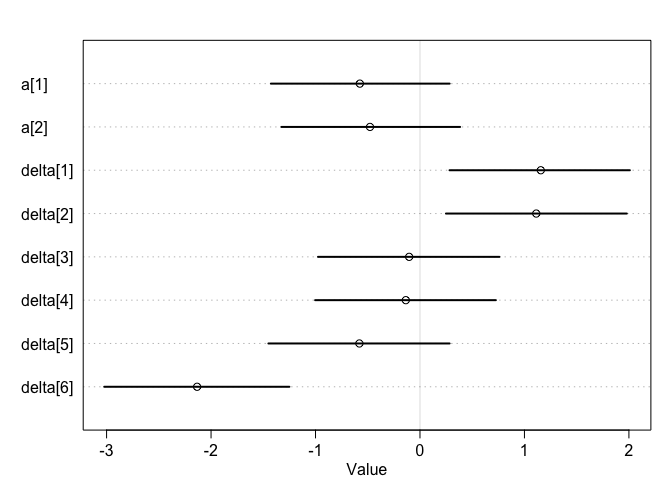
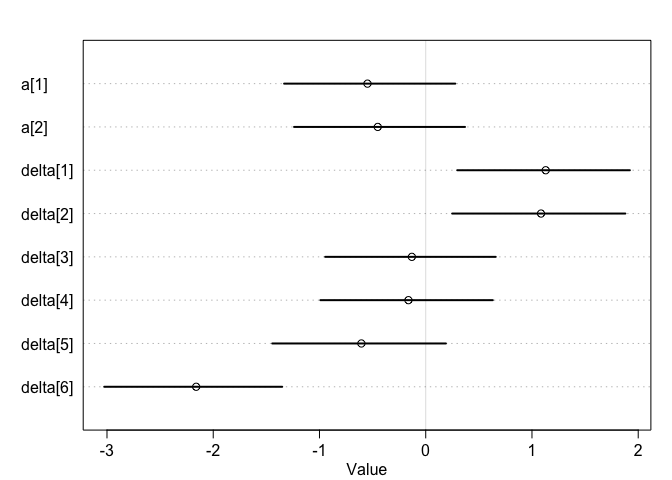
error gone after restarting computer, but problems in multi slope v1

diff --git a/Chap14_2_HW.md b/Chap14_2_HW.md
@@ -104,31 +104,58 @@ m13.1 <- ulam(
         logit(p) <- a[tank],
         a[tank] ~ dnorm( 0 , 1.5 )
 ), data=dat, chains=4, log_lik=TRUE ,cores=2) # cores=2 added by Kazu
+precis( m13.1 , depth=2 )
 ```
 
-    ## Trying to compile a simple C file
-
-    ## Running /Library/Frameworks/R.framework/Resources/bin/R CMD SHLIB foo.c
-    ## clang -I"/Library/Frameworks/R.framework/Resources/include" -DNDEBUG   -I"/Library/Frameworks/R.framework/Versions/3.6/Resources/library/Rcpp/include/"  -I"/Library/Frameworks/R.framework/Versions/3.6/Resources/library/RcppEigen/include/"  -I"/Library/Frameworks/R.framework/Versions/3.6/Resources/library/RcppEigen/include/unsupported"  -I"/Library/Frameworks/R.framework/Versions/3.6/Resources/library/BH/include" -I"/Library/Frameworks/R.framework/Versions/3.6/Resources/library/StanHeaders/include/src/"  -I"/Library/Frameworks/R.framework/Versions/3.6/Resources/library/StanHeaders/include/"  -I"/Library/Frameworks/R.framework/Versions/3.6/Resources/library/RcppParallel/include/"  -I"/Library/Frameworks/R.framework/Versions/3.6/Resources/library/rstan/include" -DEIGEN_NO_DEBUG  -DBOOST_DISABLE_ASSERTS  -DBOOST_PENDING_INTEGER_LOG2_HPP  -DSTAN_THREADS  -include stan/math/prim/mat/fun/Eigen.hpp  -D_REENTRANT  "-isystem /Library/Developer/CommandLineTools/SDKs/MacOSX.sdk/usr/include"  -fPIC  -isysroot /Library/Developer/CommandLineTools/SDKs/MacOSX.sdk -c foo.c -o foo.o
-    ## In file included from <built-in>:1:
-    ## In file included from /Library/Frameworks/R.framework/Versions/3.6/Resources/library/StanHeaders/include/stan/math/prim/mat/fun/Eigen.hpp:13:
-    ## In file included from /Library/Frameworks/R.framework/Versions/3.6/Resources/library/RcppEigen/include/Eigen/Dense:1:
-    ## In file included from /Library/Frameworks/R.framework/Versions/3.6/Resources/library/RcppEigen/include/Eigen/Core:88:
-    ## /Library/Frameworks/R.framework/Versions/3.6/Resources/library/RcppEigen/include/Eigen/src/Core/util/Macros.h:613:1: error: unknown type name 'namespace'
-    ## namespace Eigen {
-    ## ^
-    ## /Library/Frameworks/R.framework/Versions/3.6/Resources/library/RcppEigen/include/Eigen/src/Core/util/Macros.h:613:16: error: expected ';' after top level declarator
-    ## namespace Eigen {
-    ##                ^
-    ##                ;
-    ## In file included from <built-in>:1:
-    ## In file included from /Library/Frameworks/R.framework/Versions/3.6/Resources/library/StanHeaders/include/stan/math/prim/mat/fun/Eigen.hpp:13:
-    ## In file included from /Library/Frameworks/R.framework/Versions/3.6/Resources/library/RcppEigen/include/Eigen/Dense:1:
-    ## /Library/Frameworks/R.framework/Versions/3.6/Resources/library/RcppEigen/include/Eigen/Core:96:10: fatal error: 'complex' file not found
-    ## #include <complex>
-    ##          ^~~~~~~~~
-    ## 3 errors generated.
-    ## make: *** [foo.o] Error 1
+    ##              mean        sd        5.5%       94.5%    n_eff     Rhat4
+    ## a[1]   1.71162109 0.7805870  0.53850206  3.02335672 5890.928 0.9996131
+    ## a[2]   2.41357979 0.9087782  1.05664232  3.90742197 4119.387 1.0003599
+    ## a[3]   0.75738800 0.6257051 -0.19096741  1.80621355 4926.437 0.9989029
+    ## a[4]   2.40260088 0.8699920  1.11636725  3.84850151 4343.292 0.9985329
+    ## a[5]   1.71461336 0.7444676  0.56986319  2.96456475 5007.211 0.9990207
+    ## a[6]   1.71812635 0.8311876  0.47233762  3.11959746 4734.213 0.9988811
+    ## a[7]   2.40920627 0.9375493  1.01849282  3.95624055 3379.251 0.9990725
+    ## a[8]   1.71753687 0.7572272  0.57753169  2.99514619 3895.205 0.9992208
+    ## a[9]  -0.37890800 0.6201957 -1.40171478  0.57516802 6177.242 0.9985557
+    ## a[10]  1.70243367 0.7588801  0.58615080  2.94777132 4235.528 0.9989951
+    ## a[11]  0.76051033 0.6357525 -0.26492475  1.84626268 5356.679 0.9986576
+    ## a[12]  0.35957544 0.6083007 -0.57817738  1.34891097 5260.384 0.9984896
+    ## a[13]  0.77468891 0.6494445 -0.19854732  1.82842787 4422.006 0.9984664
+    ## a[14] -0.01099823 0.6010364 -0.96620875  0.93912494 6113.480 0.9984808
+    ## a[15]  1.69369669 0.7601172  0.54820202  2.96542156 3887.811 0.9986455
+    ## a[16]  1.71450502 0.7569883  0.57068830  2.99590526 5712.353 0.9986089
+    ## a[17]  2.55366285 0.6743282  1.55529752  3.70036446 3520.979 0.9988325
+    ## a[18]  2.13788428 0.5898346  1.25548952  3.13735290 3128.000 1.0001689
+    ## a[19]  1.80233624 0.5296216  1.01579425  2.69387274 4689.359 0.9999101
+    ## a[20]  3.08112277 0.7827435  1.98873441  4.44107313 3213.785 1.0001969
+    ## a[21]  2.13086419 0.5944489  1.21979524  3.11764872 5872.031 0.9988298
+    ## a[22]  2.15196171 0.6162636  1.23754544  3.16092863 4219.205 0.9985266
+    ## a[23]  2.16506085 0.6268884  1.22165768  3.17835428 3621.384 0.9988431
+    ## a[24]  1.52639417 0.5033810  0.79356141  2.34165695 5290.042 0.9989566
+    ## a[25] -1.09981597 0.4492411 -1.84239128 -0.39769849 4559.790 0.9990827
+    ## a[26]  0.07299872 0.3803417 -0.53063289  0.68299693 4809.723 0.9983355
+    ## a[27] -1.54509632 0.5110021 -2.40546948 -0.77266165 4476.869 0.9986419
+    ## a[28] -0.56665452 0.4225155 -1.26493903  0.10454105 4629.345 0.9986116
+    ## a[29]  0.07841264 0.3958108 -0.56734234  0.71977925 4880.402 0.9990958
+    ## a[30]  1.30788932 0.4817720  0.59231808  2.09306280 4836.194 0.9985865
+    ## a[31] -0.72081052 0.4177083 -1.39138723 -0.07213573 5780.464 0.9995584
+    ## a[32] -0.39713649 0.3957373 -1.04174240  0.21427544 6216.343 0.9989252
+    ## a[33]  2.82609754 0.6343408  1.88854091  3.89857057 3857.645 0.9992902
+    ## a[34]  2.45651459 0.5844352  1.57380481  3.44315438 4049.012 0.9982932
+    ## a[35]  2.46129662 0.5692681  1.61773074  3.41971842 3680.876 1.0007181
+    ## a[36]  1.91734980 0.4727699  1.20093253  2.72788777 3763.201 0.9994719
+    ## a[37]  1.90375881 0.4919558  1.17237804  2.72039817 4588.074 0.9982084
+    ## a[38]  3.36215692 0.7790680  2.22563279  4.67481203 2943.696 0.9991846
+    ## a[39]  2.47520197 0.5777906  1.61323138  3.43073436 3859.536 0.9990733
+    ## a[40]  2.16018299 0.5087453  1.40891479  3.00561993 3784.764 0.9985693
+    ## a[41] -1.90106779 0.4768062 -2.67400476 -1.19781616 3394.257 0.9995841
+    ## a[42] -0.63034206 0.3472291 -1.19605361 -0.08362308 5972.959 0.9988837
+    ## a[43] -0.50510971 0.3454303 -1.06625993  0.06064687 4197.083 0.9992110
+    ## a[44] -0.39432692 0.3357893 -0.94372291  0.13026454 4151.761 0.9992621
+    ## a[45]  0.51817575 0.3527819 -0.03087545  1.07374264 5748.180 0.9986630
+    ## a[46] -0.63275994 0.3403313 -1.18526168 -0.10702546 5509.373 0.9990598
+    ## a[47]  1.91489718 0.5046534  1.14002049  2.75647388 4736.907 0.9988548
+    ## a[48] -0.06136391 0.3260838 -0.57089626  0.45648127 5950.351 0.9985406
 
 # the end of test
 
@@ -167,45 +194,18 @@ m11.8.ulam <- ulam(
         a[gid] ~ dnorm( 0 , 1.5 ) ,
         delta[did] ~ dnorm( 0 , 1.5 )
     ) , data=dat,chains=4,cores=2,iter=4000,log_lik=TRUE)
-```
-
-    ## Trying to compile a simple C file
-
-    ## Running /Library/Frameworks/R.framework/Resources/bin/R CMD SHLIB foo.c
-    ## clang -I"/Library/Frameworks/R.framework/Resources/include" -DNDEBUG   -I"/Library/Frameworks/R.framework/Versions/3.6/Resources/library/Rcpp/include/"  -I"/Library/Frameworks/R.framework/Versions/3.6/Resources/library/RcppEigen/include/"  -I"/Library/Frameworks/R.framework/Versions/3.6/Resources/library/RcppEigen/include/unsupported"  -I"/Library/Frameworks/R.framework/Versions/3.6/Resources/library/BH/include" -I"/Library/Frameworks/R.framework/Versions/3.6/Resources/library/StanHeaders/include/src/"  -I"/Library/Frameworks/R.framework/Versions/3.6/Resources/library/StanHeaders/include/"  -I"/Library/Frameworks/R.framework/Versions/3.6/Resources/library/RcppParallel/include/"  -I"/Library/Frameworks/R.framework/Versions/3.6/Resources/library/rstan/include" -DEIGEN_NO_DEBUG  -DBOOST_DISABLE_ASSERTS  -DBOOST_PENDING_INTEGER_LOG2_HPP  -DSTAN_THREADS  -include stan/math/prim/mat/fun/Eigen.hpp  -D_REENTRANT  "-isystem /Library/Developer/CommandLineTools/SDKs/MacOSX.sdk/usr/include"  -fPIC  -isysroot /Library/Developer/CommandLineTools/SDKs/MacOSX.sdk -c foo.c -o foo.o
-    ## In file included from <built-in>:1:
-    ## In file included from /Library/Frameworks/R.framework/Versions/3.6/Resources/library/StanHeaders/include/stan/math/prim/mat/fun/Eigen.hpp:13:
-    ## In file included from /Library/Frameworks/R.framework/Versions/3.6/Resources/library/RcppEigen/include/Eigen/Dense:1:
-    ## In file included from /Library/Frameworks/R.framework/Versions/3.6/Resources/library/RcppEigen/include/Eigen/Core:88:
-    ## /Library/Frameworks/R.framework/Versions/3.6/Resources/library/RcppEigen/include/Eigen/src/Core/util/Macros.h:613:1: error: unknown type name 'namespace'
-    ## namespace Eigen {
-    ## ^
-    ## /Library/Frameworks/R.framework/Versions/3.6/Resources/library/RcppEigen/include/Eigen/src/Core/util/Macros.h:613:16: error: expected ';' after top level declarator
-    ## namespace Eigen {
-    ##                ^
-    ##                ;
-    ## In file included from <built-in>:1:
-    ## In file included from /Library/Frameworks/R.framework/Versions/3.6/Resources/library/StanHeaders/include/stan/math/prim/mat/fun/Eigen.hpp:13:
-    ## In file included from /Library/Frameworks/R.framework/Versions/3.6/Resources/library/RcppEigen/include/Eigen/Dense:1:
-    ## /Library/Frameworks/R.framework/Versions/3.6/Resources/library/RcppEigen/include/Eigen/Core:96:10: fatal error: 'complex' file not found
-    ## #include <complex>
-    ##          ^~~~~~~~~
-    ## 3 errors generated.
-    ## make: *** [foo.o] Error 1
-
-``` r
 precis( m11.8.ulam , depth=2 )
 ```
 
     ##                mean        sd       5.5%      94.5%    n_eff    Rhat4
-    ## a[1]     -0.5757211 0.5350527 -1.4270152  0.2836949 611.9735 1.000902
-    ## a[2]     -0.4785611 0.5365328 -1.3265517  0.3838958 614.0224 1.000853
-    ## delta[1]  1.1565952 0.5379881  0.2829745  2.0090522 619.7225 1.000762
-    ## delta[2]  1.1131554 0.5403540  0.2487516  1.9796943 623.6869 1.001080
-    ## delta[3] -0.1036900 0.5394389 -0.9762103  0.7603851 616.1843 1.000893
-    ## delta[4] -0.1356350 0.5390928 -1.0036596  0.7263490 617.1764 1.000778
-    ## delta[5] -0.5801026 0.5389542 -1.4509705  0.2833608 622.2192 1.000975
-    ## delta[6] -2.1335407 0.5526464 -3.0225530 -1.2501634 634.8975 1.000791
+    ## a[1]     -0.5483191 0.5016602 -1.3327749  0.2783357 657.1990 1.006194
+    ## a[2]     -0.4516842 0.5030971 -1.2390711  0.3696182 660.7883 1.005988
+    ## delta[1]  1.1291552 0.5046935  0.2969050  1.9213021 663.7386 1.005784
+    ## delta[2]  1.0853259 0.5068881  0.2493052  1.8787809 671.6900 1.005963
+    ## delta[3] -0.1305684 0.5036780 -0.9461940  0.6587598 662.6862 1.006189
+    ## delta[4] -0.1627117 0.5057496 -0.9914115  0.6312114 672.1569 1.006090
+    ## delta[5] -0.6055754 0.5072805 -1.4443009  0.1897006 672.8114 1.006184
+    ## delta[6] -2.1605985 0.5189105 -3.0259662 -1.3508785 710.7250 1.005835
 
 ``` r
 plot(m11.8.ulam , depth=2)
@@ -226,49 +226,22 @@ m.practice13M3.a <- ulam(
           a[did] ~ dnorm( 0 , 1.5 ) ,
           delta[did] ~ dnorm(0,1.5) 
         ) , data=dat , chains=4 , cores=2 , iter=4000,log_lik=TRUE )
-```
-
-    ## Trying to compile a simple C file
-
-    ## Running /Library/Frameworks/R.framework/Resources/bin/R CMD SHLIB foo.c
-    ## clang -I"/Library/Frameworks/R.framework/Resources/include" -DNDEBUG   -I"/Library/Frameworks/R.framework/Versions/3.6/Resources/library/Rcpp/include/"  -I"/Library/Frameworks/R.framework/Versions/3.6/Resources/library/RcppEigen/include/"  -I"/Library/Frameworks/R.framework/Versions/3.6/Resources/library/RcppEigen/include/unsupported"  -I"/Library/Frameworks/R.framework/Versions/3.6/Resources/library/BH/include" -I"/Library/Frameworks/R.framework/Versions/3.6/Resources/library/StanHeaders/include/src/"  -I"/Library/Frameworks/R.framework/Versions/3.6/Resources/library/StanHeaders/include/"  -I"/Library/Frameworks/R.framework/Versions/3.6/Resources/library/RcppParallel/include/"  -I"/Library/Frameworks/R.framework/Versions/3.6/Resources/library/rstan/include" -DEIGEN_NO_DEBUG  -DBOOST_DISABLE_ASSERTS  -DBOOST_PENDING_INTEGER_LOG2_HPP  -DSTAN_THREADS  -include stan/math/prim/mat/fun/Eigen.hpp  -D_REENTRANT  "-isystem /Library/Developer/CommandLineTools/SDKs/MacOSX.sdk/usr/include"  -fPIC  -isysroot /Library/Developer/CommandLineTools/SDKs/MacOSX.sdk -c foo.c -o foo.o
-    ## In file included from <built-in>:1:
-    ## In file included from /Library/Frameworks/R.framework/Versions/3.6/Resources/library/StanHeaders/include/stan/math/prim/mat/fun/Eigen.hpp:13:
-    ## In file included from /Library/Frameworks/R.framework/Versions/3.6/Resources/library/RcppEigen/include/Eigen/Dense:1:
-    ## In file included from /Library/Frameworks/R.framework/Versions/3.6/Resources/library/RcppEigen/include/Eigen/Core:88:
-    ## /Library/Frameworks/R.framework/Versions/3.6/Resources/library/RcppEigen/include/Eigen/src/Core/util/Macros.h:613:1: error: unknown type name 'namespace'
-    ## namespace Eigen {
-    ## ^
-    ## /Library/Frameworks/R.framework/Versions/3.6/Resources/library/RcppEigen/include/Eigen/src/Core/util/Macros.h:613:16: error: expected ';' after top level declarator
-    ## namespace Eigen {
-    ##                ^
-    ##                ;
-    ## In file included from <built-in>:1:
-    ## In file included from /Library/Frameworks/R.framework/Versions/3.6/Resources/library/StanHeaders/include/stan/math/prim/mat/fun/Eigen.hpp:13:
-    ## In file included from /Library/Frameworks/R.framework/Versions/3.6/Resources/library/RcppEigen/include/Eigen/Dense:1:
-    ## /Library/Frameworks/R.framework/Versions/3.6/Resources/library/RcppEigen/include/Eigen/Core:96:10: fatal error: 'complex' file not found
-    ## #include <complex>
-    ##          ^~~~~~~~~
-    ## 3 errors generated.
-    ## make: *** [foo.o] Error 1
-
-``` r
 precis(m.practice13M3.a, depth=2)
 ```
 
     ##                 mean        sd       5.5%       94.5%    n_eff     Rhat4
-    ## a[1]     -0.52546530 0.2767856 -0.9652584 -0.08547143 7012.678 0.9997754
-    ## a[2]      0.28399808 0.4364918 -0.4288475  0.96403322 7543.220 1.0000216
-    ## a[3]     -0.40192643 0.2396105 -0.7863570 -0.01378114 7868.002 1.0000228
-    ## a[4]     -0.76708677 0.2275678 -1.1335661 -0.40230373 6899.088 0.9997915
-    ## a[5]     -0.73421914 0.3354490 -1.2649110 -0.19961668 7733.333 1.0001114
-    ## a[6]     -2.69068513 0.4501433 -3.4220210 -1.96927853 7696.717 1.0002538
-    ## delta[1]  1.02270343 0.2499594  0.6244771  1.42152284 6797.912 0.9997523
-    ## delta[2]  0.24860720 0.4125581 -0.3977209  0.92819069 7513.228 1.0000932
-    ## delta[3] -0.13053862 0.1396194 -0.3540557  0.09265955 7872.920 0.9998774
-    ## delta[4]  0.06972912 0.1456684 -0.1627005  0.30034291 6941.333 0.9997977
-    ## delta[5] -0.21490839 0.1957965 -0.5272449  0.09680907 7744.554 1.0000570
-    ## delta[6]  0.01547691 0.2891586 -0.4511507  0.47354338 7558.273 1.0001401
+    ## a[1]     -0.53111766 0.2799896 -0.9891971 -0.09487201 7055.233 0.9998016
+    ## a[2]      0.28297952 0.4433290 -0.4263190  0.97804624 7069.115 0.9998011
+    ## a[3]     -0.40297554 0.2416928 -0.7862328 -0.01136879 7016.047 0.9998172
+    ## a[4]     -0.76924166 0.2306172 -1.1371300 -0.40107401 7241.190 1.0002288
+    ## a[5]     -0.73367140 0.3397747 -1.2738141 -0.19867787 6570.192 1.0001901
+    ## a[6]     -2.68682826 0.4514701 -3.4208927 -1.98196139 7414.424 1.0001483
+    ## delta[1]  1.02814636 0.2534692  0.6348017  1.44325700 6991.050 0.9998732
+    ## delta[2]  0.25089389 0.4188186 -0.4044067  0.91949736 7134.772 0.9997884
+    ## delta[3] -0.12972091 0.1417555 -0.3586003  0.09718284 7100.696 0.9998212
+    ## delta[4]  0.07127332 0.1476549 -0.1641288  0.30611663 7149.737 1.0000623
+    ## delta[5] -0.21453602 0.1977294 -0.5244854  0.10100858 6412.064 1.0003648
+    ## delta[6]  0.01386019 0.2888755 -0.4409104  0.47606071 7496.870 1.0000308
 
 ``` r
 plot(m.practice13M3.a,depth=2)
@@ -293,30 +266,6 @@ m.practice13M3.b <- ulam(
         Rho ~ lkj_corr(2)
     ) , data=dat , chains=4 , cores=2 , iter=4000,log_lik=TRUE)
 ```
-
-    ## Trying to compile a simple C file
-
-    ## Running /Library/Frameworks/R.framework/Resources/bin/R CMD SHLIB foo.c
-    ## clang -I"/Library/Frameworks/R.framework/Resources/include" -DNDEBUG   -I"/Library/Frameworks/R.framework/Versions/3.6/Resources/library/Rcpp/include/"  -I"/Library/Frameworks/R.framework/Versions/3.6/Resources/library/RcppEigen/include/"  -I"/Library/Frameworks/R.framework/Versions/3.6/Resources/library/RcppEigen/include/unsupported"  -I"/Library/Frameworks/R.framework/Versions/3.6/Resources/library/BH/include" -I"/Library/Frameworks/R.framework/Versions/3.6/Resources/library/StanHeaders/include/src/"  -I"/Library/Frameworks/R.framework/Versions/3.6/Resources/library/StanHeaders/include/"  -I"/Library/Frameworks/R.framework/Versions/3.6/Resources/library/RcppParallel/include/"  -I"/Library/Frameworks/R.framework/Versions/3.6/Resources/library/rstan/include" -DEIGEN_NO_DEBUG  -DBOOST_DISABLE_ASSERTS  -DBOOST_PENDING_INTEGER_LOG2_HPP  -DSTAN_THREADS  -include stan/math/prim/mat/fun/Eigen.hpp  -D_REENTRANT  "-isystem /Library/Developer/CommandLineTools/SDKs/MacOSX.sdk/usr/include"  -fPIC  -isysroot /Library/Developer/CommandLineTools/SDKs/MacOSX.sdk -c foo.c -o foo.o
-    ## In file included from <built-in>:1:
-    ## In file included from /Library/Frameworks/R.framework/Versions/3.6/Resources/library/StanHeaders/include/stan/math/prim/mat/fun/Eigen.hpp:13:
-    ## In file included from /Library/Frameworks/R.framework/Versions/3.6/Resources/library/RcppEigen/include/Eigen/Dense:1:
-    ## In file included from /Library/Frameworks/R.framework/Versions/3.6/Resources/library/RcppEigen/include/Eigen/Core:88:
-    ## /Library/Frameworks/R.framework/Versions/3.6/Resources/library/RcppEigen/include/Eigen/src/Core/util/Macros.h:613:1: error: unknown type name 'namespace'
-    ## namespace Eigen {
-    ## ^
-    ## /Library/Frameworks/R.framework/Versions/3.6/Resources/library/RcppEigen/include/Eigen/src/Core/util/Macros.h:613:16: error: expected ';' after top level declarator
-    ## namespace Eigen {
-    ##                ^
-    ##                ;
-    ## In file included from <built-in>:1:
-    ## In file included from /Library/Frameworks/R.framework/Versions/3.6/Resources/library/StanHeaders/include/stan/math/prim/mat/fun/Eigen.hpp:13:
-    ## In file included from /Library/Frameworks/R.framework/Versions/3.6/Resources/library/RcppEigen/include/Eigen/Dense:1:
-    ## /Library/Frameworks/R.framework/Versions/3.6/Resources/library/RcppEigen/include/Eigen/Core:96:10: fatal error: 'complex' file not found
-    ## #include <complex>
-    ##          ^~~~~~~~~
-    ## 3 errors generated.
-    ## make: *** [foo.o] Error 1
 
     ## Warning in .local(object, ...): some chains had errors; consider specifying
     ## chains = 1 to debug
@@ -368,30 +317,6 @@ m.practice13M3.c <- ulam(
 ```
 
     ## recompiling to avoid crashing R session
-
-    ## Trying to compile a simple C file
-
-    ## Running /Library/Frameworks/R.framework/Resources/bin/R CMD SHLIB foo.c
-    ## clang -I"/Library/Frameworks/R.framework/Resources/include" -DNDEBUG   -I"/Library/Frameworks/R.framework/Versions/3.6/Resources/library/Rcpp/include/"  -I"/Library/Frameworks/R.framework/Versions/3.6/Resources/library/RcppEigen/include/"  -I"/Library/Frameworks/R.framework/Versions/3.6/Resources/library/RcppEigen/include/unsupported"  -I"/Library/Frameworks/R.framework/Versions/3.6/Resources/library/BH/include" -I"/Library/Frameworks/R.framework/Versions/3.6/Resources/library/StanHeaders/include/src/"  -I"/Library/Frameworks/R.framework/Versions/3.6/Resources/library/StanHeaders/include/"  -I"/Library/Frameworks/R.framework/Versions/3.6/Resources/library/RcppParallel/include/"  -I"/Library/Frameworks/R.framework/Versions/3.6/Resources/library/rstan/include" -DEIGEN_NO_DEBUG  -DBOOST_DISABLE_ASSERTS  -DBOOST_PENDING_INTEGER_LOG2_HPP  -DSTAN_THREADS  -include stan/math/prim/mat/fun/Eigen.hpp  -D_REENTRANT  "-isystem /Library/Developer/CommandLineTools/SDKs/MacOSX.sdk/usr/include"  -fPIC  -isysroot /Library/Developer/CommandLineTools/SDKs/MacOSX.sdk -c foo.c -o foo.o
-    ## In file included from <built-in>:1:
-    ## In file included from /Library/Frameworks/R.framework/Versions/3.6/Resources/library/StanHeaders/include/stan/math/prim/mat/fun/Eigen.hpp:13:
-    ## In file included from /Library/Frameworks/R.framework/Versions/3.6/Resources/library/RcppEigen/include/Eigen/Dense:1:
-    ## In file included from /Library/Frameworks/R.framework/Versions/3.6/Resources/library/RcppEigen/include/Eigen/Core:88:
-    ## /Library/Frameworks/R.framework/Versions/3.6/Resources/library/RcppEigen/include/Eigen/src/Core/util/Macros.h:613:1: error: unknown type name 'namespace'
-    ## namespace Eigen {
-    ## ^
-    ## /Library/Frameworks/R.framework/Versions/3.6/Resources/library/RcppEigen/include/Eigen/src/Core/util/Macros.h:613:16: error: expected ';' after top level declarator
-    ## namespace Eigen {
-    ##                ^
-    ##                ;
-    ## In file included from <built-in>:1:
-    ## In file included from /Library/Frameworks/R.framework/Versions/3.6/Resources/library/StanHeaders/include/stan/math/prim/mat/fun/Eigen.hpp:13:
-    ## In file included from /Library/Frameworks/R.framework/Versions/3.6/Resources/library/RcppEigen/include/Eigen/Dense:1:
-    ## /Library/Frameworks/R.framework/Versions/3.6/Resources/library/RcppEigen/include/Eigen/Core:96:10: fatal error: 'complex' file not found
-    ## #include <complex>
-    ##          ^~~~~~~~~
-    ## 3 errors generated.
-    ## make: *** [foo.o] Error 1
 
     ## Warning in .local(object, ...): some chains had errors; consider specifying
     ## chains = 1 to debug
